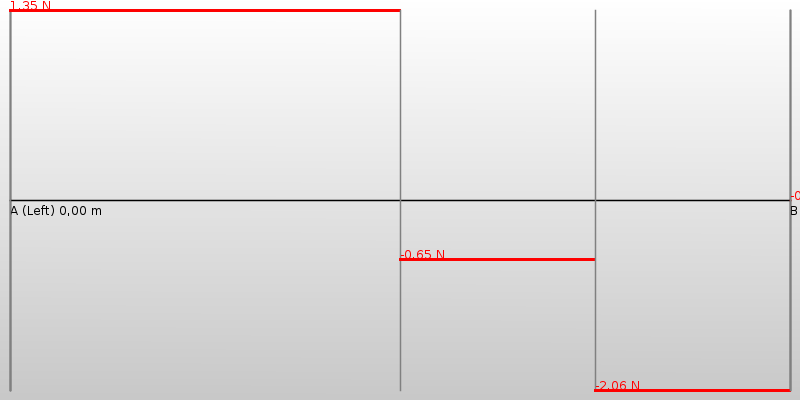
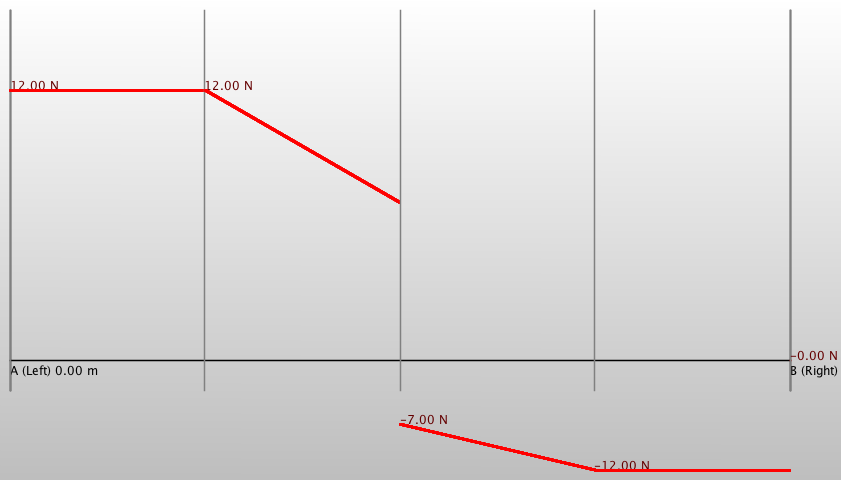
Bending moments for pint and distrubuted loads are calculated correctly.
Unevenly distrubuted loads are not included yet :(

diff --git a/src/org/berthold/beamCalc/StressResultantDraw.java b/src/org/berthold/beamCalc/StressResultantDraw.java
@@ -2,7 +2,9 @@ package org.berthold.beamCalc;
 
 import java.awt.BasicStroke;
 import java.awt.Color;
+import java.awt.FontMetrics;
 import java.awt.GradientPaint;
+import java.awt.Graphics;
 import java.awt.Graphics2D;
 import java.awt.Rectangle;
 import java.awt.RenderingHints;
@@ -34,6 +36,7 @@ public class StressResultantDraw {
 	
 	// Constants for the GFX- window
 	private final int Y_OFFSET_ANNOTATION=15;
+	private final int PADDING_TOP_PX=80; // A constant enabeling text at the top of the diagram to be seen....
 	
 	/**
 	 * Creates a new image.
@@ -54,21 +57,23 @@ public class StressResultantDraw {
 		this.name=name;
 		this.beam=beam;
 		this.stressResultantsTable=stressResultants;
-		this.height_px = height_px;
-		this.width_px = width_px;
 		this.padX_px = padX_px;
 		this.padY_px = padY_px;
 		this.numberFormat=numberFormat;
-
+		
+		this.height_px = height_px;
+		this.width_px = width_px;
+	
 		// Beam
 		leftSupportX=beam.getSupportsSortedByDistanceFromLeftEndOfBeamDesc().get(0).getDistanceFromLeftEndOfBeam_m();
 		leftSupportName=beam.getSupportsSortedByDistanceFromLeftEndOfBeamDesc().get(0).getNameOfSupport();
 		
 		rightSupportX=beam.getSupportsSortedByDistanceFromLeftEndOfBeamDesc().get(1).getDistanceFromLeftEndOfBeam_m();
 		rightSupportName=beam.getSupportsSortedByDistanceFromLeftEndOfBeamDesc().get(1).getNameOfSupport();
+
 		
-		// Constants defining the gfx- window
-		y0_px = height_px / 2;
+		// Constants for the gfx- window
+		y0_px = (height_px / 2)+PADDING_TOP_PX;
 		yMax = stressResultantsTable.getAbsMax();
 		yMin =  stressResultantsTable.getAbsMin();
 		xMax =  stressResultantsTable.getAbsMaxX();
@@ -77,27 +82,35 @@ public class StressResultantDraw {
 	public void draw() {
 		try {
 			// Create an in memory Image
-			BufferedImage img = new BufferedImage(width_px,height_px, BufferedImage.TYPE_INT_ARGB);
+			// This is a image used only to determine the width of the image + the width of the
+			// right supports name.... Determine right padding...
+			BufferedImage himg = new BufferedImage(width_px,height_px, BufferedImage.TYPE_INT_ARGB);
+			Graphics2D hg=himg.createGraphics();
+			int paddingRight_px=getWidthOfStringIn_px(leftSupportName,hg);
+			
+			
+			// This is the image used by the renderer
+			BufferedImage img = new BufferedImage(width_px+paddingRight_px,height_px+PADDING_TOP_PX, BufferedImage.TYPE_INT_ARGB);
 
 			// Grab the graphics object off the image
 			Graphics2D graphics = img.createGraphics();
 			graphics=assignRenderingHints(graphics);
 			
 			// Draw background
-			Color c1=new Color (255,255,255);
-			Color c2=new Color (200,200,200);
+			Color c1=new Color (255,255,255); // Gradient start color
+			Color c2=new Color (190,190,190); // Gradient end color
 			
-			GradientPaint gradient = new GradientPaint((float) 1, 0, c1, (float) (0), height_px, c2);
+			GradientPaint gradient = new GradientPaint((float) 1, 0, c1, (float) (0), height_px+PADDING_TOP_PX, c2);
 			graphics.setPaint(gradient);
-			graphics.fillRect(0,0, width_px,
-					height_px );
+			graphics.fillRect(0,0, width_px+paddingRight_px,
+					height_px+PADDING_TOP_PX );
 			
 			Stroke stroke = new BasicStroke(1.5f);
 			graphics.setStroke(stroke);
 			graphics.setColor(Color.BLACK);
 			
 			// Datum
-			graphics.drawLine(padX_px,y0_px,width_px-padX_px,y0_px);
+			graphics.drawLine(padX_px,y0_px+PADDING_TOP_PX,width_px-padX_px,y0_px+PADDING_TOP_PX);
 			
 			// Supports
 			String dimFormated;
@@ -113,13 +126,13 @@ public class StressResultantDraw {
 			
 			// Draw stress resultants.
 			for (StressResultant r: stressResultantsTable.sfValues) {
-				// Stress resultant
-				graphics.setColor(Color.RED);
 				
 				// Transform
 				double y=r.getShearingForce();
 				double x=r.getX_m();
 				
+				// The graph
+				graphics.setColor(Color.RED);
 				graphics.drawLine((int)getXT(x),(int) getYT(y),(int) getXT(x),(int) getYT(y));
 				
 				String shFormated;
@@ -127,7 +140,8 @@ public class StressResultantDraw {
 					graphics.setColor(Color.GRAY);
 					graphics.drawLine((int)getXT(x),padY_px,(int)getXT(x),height_px-padY_px);
 					
-					graphics.setColor(Color.RED);
+					Color c=new Color (100,0,0);
+					graphics.setColor(c);
 					
 					shFormated=String.format(numberFormat,r.getShearingForce());					
 					graphics.drawString(shFormated+" "+r.getUnit(),(int)getXT(x),(int)getYT(y));
@@ -137,6 +151,8 @@ public class StressResultantDraw {
 					graphics.setColor(Color.BLUE);
 					graphics.drawLine((int)getXT(x),padY_px,(int)getXT(x),height_px-padY_px);
 				}
+				
+				
 			}
 			
 			// Save to file.
@@ -155,11 +171,11 @@ public class StressResultantDraw {
 	private double getYT(double y) {
 
 		if (y > 0)
-			return y0_px - ((y0_px - padY_px) / yMax) * y;
+			return (y0_px - ((y0_px - padY_px) / yMax) * y)+PADDING_TOP_PX;
 		if (y < 0)
-			return y0_px + ((height_px - padY_px - y0_px) / yMin) * y;
+			return (y0_px + ((height_px - padY_px - y0_px) / yMin) * y)+PADDING_TOP_PX;
 
-		return (double) y0_px;
+		return (double) y0_px+PADDING_TOP_PX;
 	}
 
 	/**
@@ -170,6 +186,18 @@ public class StressResultantDraw {
 	 */
 	private double getXT(double x) {
 		return x * ((width_px - 2 * padX_px) / xMax) + padX_px;
+	}
+	
+	/**
+	 * Display width of a string in pixels.
+	 * 
+	 * @param string
+	 * @param g Associated {@ling Graphics} object.
+	 * @return	Width of string in pixels.
+	 */
+	private int getWidthOfStringIn_px(String string,Graphics g) {
+		FontMetrics f=g.getFontMetrics();
+		return f.stringWidth(string);
 	}
 	
 	//

diff --git a/src/org/berthold/beamCalc/QSolver.java b/src/org/berthold/beamCalc/QSolver.java
@@ -15,9 +15,9 @@ public class QSolver {
 	/**
 	 * Calculates the shearing forces along the length of the beam.
 	 * 
-	 * Basis is a a table containing {@link StressResultant}- Objects. The starting
-	 * contition for this table is, that is must contain all supporting forces and
-	 * all acting forces.
+	 * Basis is a a table containing {@link StressResultant}- Objects. The
+	 * starting contition for this table is, that is must contain all supporting
+	 * forces and all acting forces.
 	 * <p>
 	 * Shearing forces are calculated by following this algorithm:
 	 * <p>
@@ -31,20 +31,23 @@ public class QSolver {
 	 * 
 	 * For the time beeing this works only for point loads!
 	 * 
-	 * @param beam An {@link beam}- object from which the shearing forces are
-	 *             calculated.	  
-	 * @param unit The unit (N, kN.....).
+	 * @param beam
+	 *            An {@link beam}- object from which the shearing forces are
+	 *            calculated.
+	 * @param unit
+	 *            The unit (N, kN.....).
 	 * 
-	 * @return A {@link StressResultantTable}- object containing the shearing forces
-	 *         over the length of the beam => Q(x)
+	 * @return A {@link StressResultantTable}- object containing the shearing
+	 *         forces over the length of the beam => Q(x)
 	 * 
 	 */
 	public static StressResultantTable solve(Beam beam, String unit) {
-		final double sectionLength_m = .0001; // Small values lead to more accurate results.
+		double sectionLength_m = .0001; // Small values lead to more accurate
+										// results.
 
 		BeamResult result = BeamSolver.getResults(beam, "2f");
 
-		StressResultantTable qTable = new StressResultantTable(beam, sectionLength_m,unit);
+		StressResultantTable qTable = new StressResultantTable(beam, sectionLength_m, unit);
 
 		// Add supporting forces
 		Load l = new Load("A", result.getResultingForceAtLeftBearing_N(),
@@ -69,11 +72,11 @@ public class QSolver {
 			}
 
 		// Superimpose uniformingly distributed loads
-		List<Load> loads = beam.getLoads();
+		List<Load> loads = beam.getLoadsSortedByDistanceFromLeftSupportDesc();
+	
 		for (Load q : loads) {
-			if (q.getLengthOfLineLoad_m() > 0) {
-				qTable.addDistributedLoad(q);
-			}
+			if (q.getLengthOfLineLoad_m() > 0) 
+			qTable.addDistributedLoad(q);
 		}
 
 		// Calculate shearing forces from existing table and write results back

diff --git a/src/org/berthold/beamCalc/Beam.java b/src/org/berthold/beamCalc/Beam.java
@@ -1,10 +1,10 @@
 package org.berthold.beamCalc;
+
 import java.util.ArrayList;
 import java.util.Collections;
 import java.util.List;
 
-
-/** 
+/**
  * A beam
  * 
  * @author Berthold
@@ -28,6 +28,11 @@ public class Beam {
 		loads = new ArrayList<Load>();
 	}
 
+	/**
+	 * Adds a load which either can be a point load or a distributed load.
+	 * 
+	 * @param load The {@link Load}- object.
+	 */
 	public void addLoad(Load load) {
 		loads.add(load);
 	}
@@ -37,6 +42,14 @@ public class Beam {
 		numberOfSupports++;
 	}
 
+	/**
+	 * Checks if any given length is bigger as the length of this beam object.
+	 * 
+	 * @param distanceFromLeftEndOfBeam_m
+	 * @return true if the given length is equal or smaller than the length of
+	 *         this beam object. false if otherwise.
+	 * 
+	 */
 	public boolean isInsideOfBeamLength(double distanceFromLeftEndOfBeam_m) {
 		if (distanceFromLeftEndOfBeam_m >= 0 && distanceFromLeftEndOfBeam_m <= lengthOfBeam_m)
 			return true;
@@ -93,11 +106,11 @@ public class Beam {
 		}
 		return numberOfLineLoads;
 	}
-	
-	public List <Load> getLoads(){
+
+	public List<Load> getLoads() {
 		return loads;
 	}
-	
+
 	/**
 	 * Sort loads descending by distance from left end of beam.
 	 * 
@@ -110,6 +123,7 @@ public class Beam {
 
 	/**
 	 * Sort supports descending by distance from left end of beam.
+	 * 
 	 * @return
 	 */
 	public List<Support> getSupportsSortedByDistanceFromLeftEndOfBeamDesc() {

diff --git a/src/org/berthold/beamCalc/MSolver.java b/src/org/berthold/beamCalc/MSolver.java
@@ -35,7 +35,7 @@ public class MSolver {
 		double m1_Nm = 0;
 		double q_N, q1_N;
 		double deltaM_Nm = 0;
-		double sectionLength_m = qTable.getSectionLength_m();
+		double sectionLength_m = mTable.getSectionLength_m();
 		double x = 0;
 
 		for (int n = 0; n <= qTable.getLength() - 2; n++) {
@@ -51,7 +51,6 @@ public class MSolver {
 				m_Nm = q_N * x;
 				m1_Nm = q1_N * (x + sectionLength_m);
 				deltaM_Nm = m1_Nm - m_Nm;
-
 			} else {
 
 			}
@@ -72,8 +71,7 @@ public class MSolver {
 				mTable.getShearingForceAtIndex(n).setMaxima(true);
 
 			// Next
-			x = x + sectionLength_m/1000;
-	
+			x = x + sectionLength_m/(1/sectionLength_m);
 		}
 		return mTable;
 	}

diff --git a/src/org/berthold/beamCalc/Load.java b/src/org/berthold/beamCalc/Load.java
@@ -231,10 +231,21 @@ public class Load implements Comparable<Load> {
 		return angleOfLoad_degrees;
 	}
 
+	/**
+	 * Length of an uniformly distributed load.
+	 * 
+	 * @return Length of the load.
+	 */
 	public double getLengthOfLineLoad_m() {
 		return lengthOfLineLoad_m;
 	}
 
+	/**
+	 * Checks wether this load should be included wehn calculating
+	 * the supporting forces or not.
+	 * 
+	 * @return True if this load should be included into the calculation. False if not.
+	 */
 	public boolean getIncludeThisLoadIntoCalculation() {
 		return includeThisLoadIntoCaclulation;
 	}

diff --git a/src/MainBeamCalculator.java b/src/MainBeamCalculator.java
@@ -24,10 +24,10 @@ public class MainBeamCalculator {
 
 		// Add loads
 		// NAME/ Force/ Distance/ Angle /Length
-		myBeam.addLoad(new Load("F1", -2.0, 2, 0, 0));
-		myBeam.addLoad(new Load("F2", -2, 3,45, 0));
-		//myBeam.addLoad(new Load("F3", -1, 4,0, 0));
-		//myBeam.addLoad(new Load("q1", -5, 0, 0, 4));
+		//myBeam.addLoad(new Load("F1", -2.0, 1, 0, 0));
+		//myBeam.addLoad(new Load("F2", -3, 3,0, 0));
+		myBeam.addLoad(new Load("F3", -14, 2,0, 0));
+		myBeam.addLoad(new Load("q1", -5, 1, 0,2));
 		
 		
 		//myBeam.addLoad(new Load("q2", 2, 0, 0, 4));

diff --git a/src/org/berthold/beamCalc/StressResultantTable.java b/src/org/berthold/beamCalc/StressResultantTable.java
@@ -110,7 +110,7 @@ public class StressResultantTable {
 
 				q.setDiscontiunuity(true);
 				
-				q.setShearingForceDeltaBy(force_N);
+				//q.setShearingForceDeltaBy(force_N);
 
 				q.setShearingForce(force_N);
 				q.setX_m(x_m);
@@ -151,7 +151,6 @@ public class StressResultantTable {
 				r.setShearingForceDeltaBy(dq_perSectionLength);
 				System.out.println("END Disc!"+r.getX_m()+r.getX_m());
 			}
-
 		}
 
 		// Debug....
